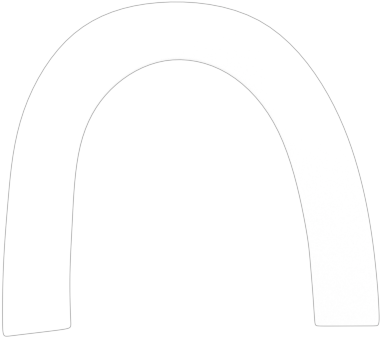
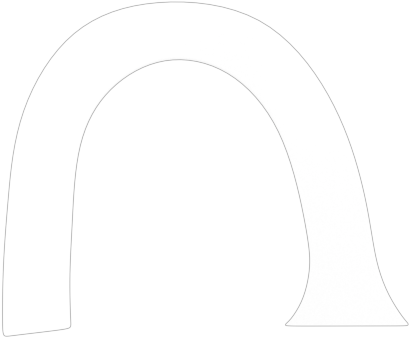
refactor: spaceship ramp curve and new assets

diff --git a/packages/pinball_components/lib/src/components/spaceship_ramp.dart b/packages/pinball_components/lib/src/components/spaceship_ramp.dart
@@ -1,4 +1,4 @@
-// ignore_for_file: avoid_renaming_method_parameters, comment_references
+// ignore_for_file: avoid_renaming_method_parameters
 
 import 'dart:math' as math;
 
@@ -8,13 +8,13 @@ import 'package:pinball_components/gen/assets.gen.dart';
 import 'package:pinball_components/pinball_components.dart' hide Assets;
 
 /// {@template spaceship_ramp}
-/// A [Blueprint] which creates the [_SpaceshipRampBackground].
+/// A [Blueprint] which creates the ramp leading into the [Spaceship].
 /// {@endtemplate}
 class SpaceshipRamp extends Forge2DBlueprint {
   /// {@macro spaceship_ramp}
   SpaceshipRamp();
 
-  /// Base priority for wall while be in the ramp.
+  /// Base priority for the [Ball] while inside the ramp.
   static const int ballPriorityInsideRamp = 4;
 
   @override
@@ -28,14 +28,14 @@ class SpaceshipRamp extends Forge2DBlueprint {
       outsidePriority: 1,
       rotation: math.pi,
     )
-      ..initialPosition = Vector2(1.7, 19)
+      ..initialPosition = Vector2(1.7, 19.8)
       ..layer = Layer.opening;
     final leftOpening = _SpaceshipRampOpening(
       outsideLayer: Layer.spaceship,
       outsidePriority: Spaceship.ballPriorityWhenOnSpaceship,
       rotation: math.pi,
     )
-      ..initialPosition = Vector2(-13.7, 19)
+      ..initialPosition = Vector2(-13.7, 18.6)
       ..layer = Layer.spaceshipEntranceRamp;
 
     final spaceshipRamp = _SpaceshipRampBackground();
@@ -54,8 +54,6 @@ class SpaceshipRamp extends Forge2DBlueprint {
   }
 }
 
-/// Represents the upper left blue ramp of the [Board] with its background
-/// railing.
 class _SpaceshipRampBackground extends BodyComponent
     with InitialPosition, Layered {
   _SpaceshipRampBackground()
@@ -71,7 +69,7 @@ class _SpaceshipRampBackground extends BodyComponent
 
     final outerLeftCurveShape = BezierCurveShape(
       controlPoints: [
-        Vector2(-30.95, 38),
+        Vector2(-30.75, 37.3),
         Vector2(-32.5, 71.25),
         Vector2(-14.2, 71.25),
       ],
@@ -83,13 +81,21 @@ class _SpaceshipRampBackground extends BodyComponent
     final outerRightCurveShape = BezierCurveShape(
       controlPoints: [
         outerLeftCurveShape.vertices.last,
-        Vector2(4.7, 71.25),
-        Vector2(6.3, 40),
+        Vector2(2.5, 71.9),
+        Vector2(6.1, 44.9),
       ],
     );
 
     final outerRightCurveFixtureDef = FixtureDef(outerRightCurveShape);
     fixturesDef.add(outerRightCurveFixtureDef);
+
+    final boardOpeningEdgeShape = EdgeShape()
+      ..set(
+        outerRightCurveShape.vertices.last,
+        Vector2(7.3, 41.1),
+      );
+    final boardOpeningEdgeShapeFixtureDef = FixtureDef(boardOpeningEdgeShape);
+    fixturesDef.add(boardOpeningEdgeShapeFixtureDef);
 
     return fixturesDef;
   }
@@ -121,9 +127,9 @@ class _SpaceshipRampBackground extends BodyComponent
 
     final spriteRampComponent = SpriteComponent(
       sprite: spriteRamp,
-      size: Vector2(38.1, 33.8),
+      size: spriteRamp.originalSize / 10,
       anchor: Anchor.center,
-      position: Vector2(-12.2, -53.5),
+      position: Vector2(-10.6, -53.6),
     );
 
     final spriteRailingBg = await gameRef.loadSprite(
@@ -131,19 +137,18 @@ class _SpaceshipRampBackground extends BodyComponent
     );
     final spriteRailingBgComponent = SpriteComponent(
       sprite: spriteRailingBg,
-      size: Vector2(38.3, 35.1),
+      size: spriteRailingBg.originalSize / 10,
       anchor: Anchor.center,
-      position: spriteRampComponent.position + Vector2(0, -1),
+      position: spriteRampComponent.position + Vector2(-1.1, -0.7),
     );
 
     await addAll([
-      spriteRailingBgComponent,
       spriteRampComponent,
+      spriteRailingBgComponent,
     ]);
   }
 }
 
-/// Represents the foreground of the railing upper left blue ramp.
 class _SpaceshipRampForegroundRailing extends BodyComponent
     with InitialPosition, Layered {
   _SpaceshipRampForegroundRailing()
@@ -168,13 +173,21 @@ class _SpaceshipRampForegroundRailing extends BodyComponent
     final innerRightCurveShape = BezierCurveShape(
       controlPoints: [
         innerLeftCurveShape.vertices.last,
-        Vector2(-1, 64.5),
-        Vector2(0.1, 39.5),
+        Vector2(-2.5, 66.2),
+        Vector2(0, 44.5),
       ],
     );
 
     final innerRightCurveFixtureDef = FixtureDef(innerRightCurveShape);
     fixturesDef.add(innerRightCurveFixtureDef);
+
+    final boardOpeningEdgeShape = EdgeShape()
+      ..set(
+        innerRightCurveShape.vertices.last,
+        Vector2(-0.85, 40.8),
+      );
+    final boardOpeningEdgeShapeFixtureDef = FixtureDef(boardOpeningEdgeShape);
+    fixturesDef.add(boardOpeningEdgeShapeFixtureDef);
 
     return fixturesDef;
   }
@@ -205,16 +218,15 @@ class _SpaceshipRampForegroundRailing extends BodyComponent
     );
     final spriteRailingFgComponent = SpriteComponent(
       sprite: spriteRailingFg,
-      size: Vector2(26.1, 28.3),
+      size: spriteRailingFg.originalSize / 10,
       anchor: Anchor.center,
-      position: Vector2(-12.2, -52.5),
+      position: Vector2(-12.3, -52.5),
     );
 
     await add(spriteRailingFgComponent);
   }
 }
 
-/// Represents the ground right base of the [SpaceshipRamp].
 class _SpaceshipRampBase extends BodyComponent with InitialPosition, Layered {
   _SpaceshipRampBase() {
     layer = Layer.board;
@@ -224,14 +236,14 @@ class _SpaceshipRampBase extends BodyComponent with InitialPosition, Layered {
   Body createBody() {
     renderBody = false;
 
-    const baseWidth = 6;
+    const baseWidth = 9;
     final baseShape = BezierCurveShape(
       controlPoints: [
         Vector2(initialPosition.x - baseWidth / 2, initialPosition.y),
         Vector2(initialPosition.x - baseWidth / 2, initialPosition.y) +
-            Vector2(2, 2),
+            Vector2(2, 5),
         Vector2(initialPosition.x + baseWidth / 2, initialPosition.y) +
-            Vector2(-2, 2),
+            Vector2(-2, 5),
         Vector2(initialPosition.x + baseWidth / 2, initialPosition.y)
       ],
     );
@@ -266,7 +278,7 @@ class _SpaceshipRampOpening extends RampOpening {
 
   final double _rotation;
 
-  static final Vector2 _size = Vector2(_SpaceshipRampBackground.width / 4, .1);
+  static final Vector2 _size = Vector2(_SpaceshipRampBackground.width / 3, .1);
 
   @override
   Shape get shape {

diff --git a/packages/pinball_components/test/src/components/spaceship_ramp_test.dart b/packages/pinball_components/test/src/components/spaceship_ramp_test.dart
@@ -1,5 +1,6 @@
 // ignore_for_file: cascade_invocations
 
+import 'package:flame_forge2d/flame_forge2d.dart';
 import 'package:flame_test/flame_test.dart';
 import 'package:flutter_test/flutter_test.dart';
 import 'package:pinball_components/pinball_components.dart';
@@ -8,20 +9,22 @@ import '../../helpers/helpers.dart';
 
 void main() {
   group('SpaceshipRamp', () {
-    TestWidgetsFlutterBinding.ensureInitialized();
-    final flameTester = FlameTester(TestGame.new);
+    final tester = FlameTester(TestGame.new);
 
-    flameTester.test(
-      'loads correctly',
-      (game) async {
-        final spaceshipEntranceRamp = SpaceshipRamp();
-        await game.addFromBlueprint(spaceshipEntranceRamp);
+    tester.testGameWidget(
+      'renders correctly',
+      setUp: (game, tester) async {
+        await game.addFromBlueprint(SpaceshipRamp());
         await game.ready();
-
-        for (final element in spaceshipEntranceRamp.components) {
-          expect(game.contains(element), isTrue);
-        }
+        game.camera.followVector2(Vector2(-13, -50));
       },
+      // TODO(allisonryan0002): enable test when workflows are fixed.
+      // verify: (game, tester) async {
+      //   await expectLater(
+      //     find.byGame<Forge2DGame>(),
+      //     matchesGoldenFile('golden/spaceship-ramp.png'),
+      //   );
+      // },
     );
   });
 }

diff --git a/packages/pinball_components/sandbox/lib/stories/spaceship_ramp/spaceship_ramp_game.dart b/packages/pinball_components/sandbox/lib/stories/spaceship_ramp/spaceship_ramp_game.dart
@@ -1,0 +1,23 @@
+import 'package:flame/extensions.dart';
+import 'package:pinball_components/pinball_components.dart';
+import 'package:sandbox/common/common.dart';
+import 'package:sandbox/stories/ball/basic_ball_game.dart';
+
+class SpaceshipRampGame extends BasicBallGame with Traceable {
+  SpaceshipRampGame() : super(color: const Color(0xFFFF0000));
+
+  static const info = '''
+    Shows how SpaceshipRamp is rendered.
+
+    - Activate the "trace" parameter to overlay the body.
+    - Tap anywhere on the screen to spawn a ball into the game.
+''';
+
+  @override
+  Future<void> onLoad() async {
+    await super.onLoad();
+    await addFromBlueprint(SpaceshipRamp());
+    camera.followVector2(Vector2(-12, -50));
+    await traceAllBodies();
+  }
+}

diff --git a/packages/pinball_components/sandbox/lib/common/trace.dart b/packages/pinball_components/sandbox/lib/common/trace.dart
@@ -12,8 +12,9 @@ extension BodyTrace on BodyComponent {
 
     unawaited(
       mounted.whenComplete(() {
-        final sprite = children.whereType<SpriteComponent>().first;
-        sprite.paint.color = sprite.paint.color.withOpacity(0.5);
+        descendants()
+            .whereType<SpriteComponent>()
+            .forEach((sprite) => sprite.setOpacity(0.5));
 
         descendants().whereType<JointAnchor>().forEach((anchor) {
           final fixtureDef = FixtureDef(CircleShape()..radius = 0.5);
@@ -33,7 +34,7 @@ mixin Traceable on Forge2DGame {
   }) async {
     if (trace) {
       await ready();
-      children
+      descendants()
           .whereType<BodyComponent>()
           .forEach((bodyComponent) => bodyComponent.trace());
     }

diff --git a/packages/pinball_components/sandbox/lib/stories/spaceship_ramp/stories.dart b/packages/pinball_components/sandbox/lib/stories/spaceship_ramp/stories.dart
@@ -1,0 +1,16 @@
+import 'package:dashbook/dashbook.dart';
+import 'package:flame/game.dart';
+import 'package:sandbox/common/common.dart';
+import 'package:sandbox/stories/spaceship_ramp/spaceship_ramp_game.dart';
+
+void addSpaceshipRampStories(Dashbook dashbook) {
+  dashbook.storiesOf('SpaceshipRamp').add(
+        'Basic',
+        (context) => GameWidget(
+          game: SpaceshipRampGame()
+            ..trace = context.boolProperty('Trace', true),
+        ),
+        codeLink: buildSourceLink('spaceship_ramp_game/basic.dart'),
+        info: SpaceshipRampGame.info,
+      );
+}

diff --git a/packages/pinball_components/sandbox/lib/main.dart b/packages/pinball_components/sandbox/lib/main.dart
@@ -17,6 +17,7 @@ void main() {
   addEffectsStories(dashbook);
   addFlipperStories(dashbook);
   addSpaceshipStories(dashbook);
+  addSpaceshipRampStories(dashbook);
   addBaseboardStories(dashbook);
   addChromeDinoStories(dashbook);
   addDashNestBumperStories(dashbook);

diff --git a/packages/pinball_components/sandbox/lib/stories/stories.dart b/packages/pinball_components/sandbox/lib/stories/stories.dart
@@ -7,5 +7,6 @@ export 'flipper/stories.dart';
 export 'layer/stories.dart';
 export 'slingshot/stories.dart';
 export 'spaceship/stories.dart';
+export 'spaceship_ramp/stories.dart';
 export 'sparky_bumper/stories.dart';
 export 'zoom/stories.dart';
